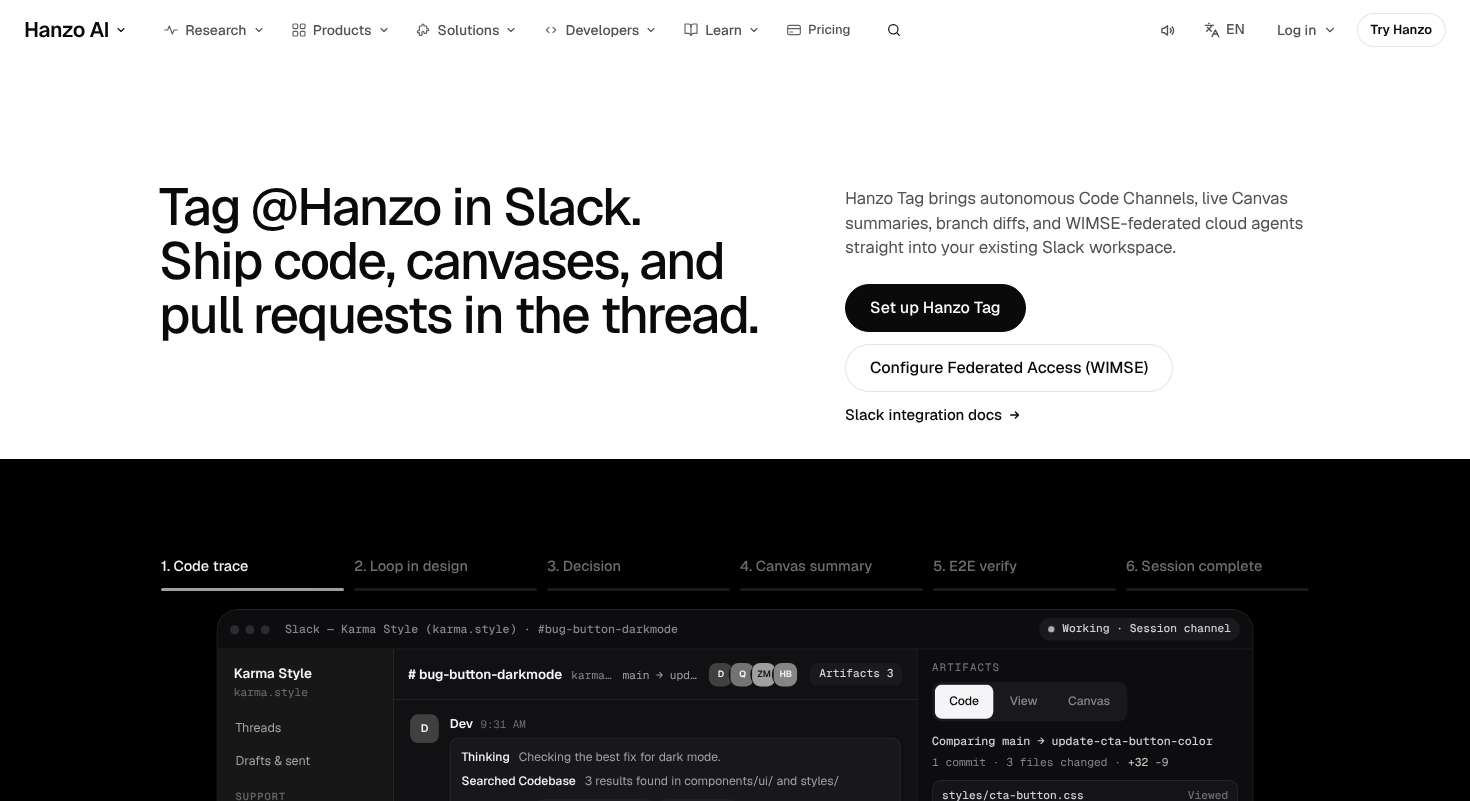
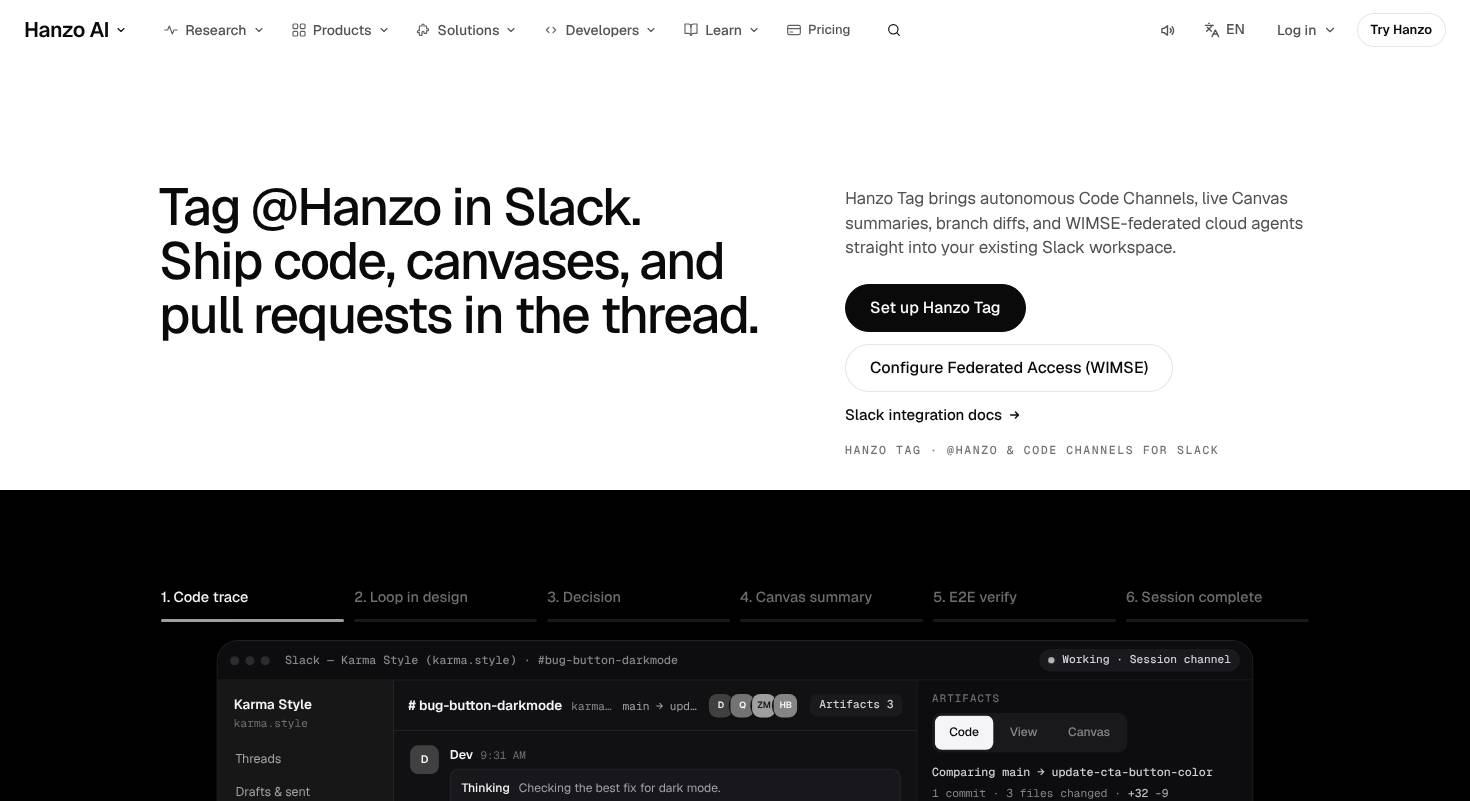
slack: Ready — copycheck missing 0 of 126: every Hanzo line its own text (setup, steps, trace, merged, diff), both Hanzo labels shown under their headline, Dev and Qa memoji restored
Claude-Session: https://claude.ai/code/session_01P5YBdxX2mH7piDf4NGrmPi

diff --git a/components/pages/Slack.jsx b/components/pages/Slack.jsx
@@ -83,7 +83,7 @@ function Diff() {
         <tbody>
           {DIFF.lines.map(([a, b, s, t], i) => (
             <tr key={i} className={s === '+' ? 'add' : s === '-' ? 'del' : ''} style={{ '--i': i }}>
-              <td>{a ?? ''}</td><td>{b ?? ''}</td><td><span className={`${P}-sign`}>{s.trim()}</span>{t}</td>
+              <td>{a ?? ''}</td><td>{b ?? ''}</td><td><span className={`${P}-sign`}>{s.trim()}</span><span className={`${P}-t`}>{t}</span></td>
             </tr>
           ))}
         </tbody>
@@ -245,7 +245,6 @@ function Hero() {
     <section className={`${P}-hero`} aria-labelledby="xsq-h1">
       <div className="a2-wrap a2-grid">
         <div className={`${P}-hero-l`}>
-          <p className="a2-kick"><i className={`${P}-dot`} aria-hidden="true" />{HERO.kick}</p>
           <A2Lines as="h1" id="xsq-h1" className={`a2-display ${P}-h1`} lines={HERO.title} now />
         </div>
         <div className={`${P}-hero-r`}>
@@ -255,6 +254,7 @@ function Hero() {
             <A to={HERO.acts[1][1]} className={`x-btn ${P}-quiet`}>{HERO.acts[1][0]}</A>
           </div>
           <p className={`${P}-docs`}><More to={HERO.acts[2][1]}>{HERO.acts[2][0]}</More></p>
+          <p className={`a2-kick show ${P}-kick`}>{HERO.kick}</p>
         </div>
       </div>
     </section>
@@ -301,9 +301,9 @@ function Notes() {
     <section className={`a2-sec ${P}-notes`} aria-labelledby="xsq-notes-h">
       <div className="a2-wrap a2-grid">
         <div className={`${P}-notes-h`}>
-          <p className="a2-kick"><b>{CODE.kick}</b></p>
           <A2Lines id="xsq-notes-h" className="a2-headline" lines={[CODE.title]} />
           <p className="a2-body">{CODE.lede}</p>
+          <p className={`a2-kick show ${P}-kick`}>{CODE.kick}</p>
           <Crop on={on} />
         </div>
         <div className={`${P}-notes-l`}>
@@ -343,10 +343,10 @@ function Setup() {
       <div className="a2-wrap">
         <div className={`${P}-card`}>
           <div className={`${P}-card-a`}>
-            <p className={`${P}-card-t`}><span>{SETUP.title}</span><b className={s >= 3 ? 'on' : ''}><i aria-hidden="true" />{SETUP.verified}</b></p>
-            <div className={`${P}-card-h`}><Face who="hanzo" p={P} size={34} /><span><b id="xsq-setup-h">{SETUP.name}</b><span>{SETUP.sub}</span></span></div>
+            <p className={`${P}-card-t`}><span>{SETUP.title}</span><b className={s >= 3 ? 'on' : ''}><i aria-hidden="true" /><span className={`${P}-t`}>{SETUP.verified}</span></b></p>
+            <div className={`${P}-card-h`}><Face who="hanzo" p={P} size={34} /><span><b id="xsq-setup-h"><span className={`${P}-t`}>{SETUP.name}</span></b><span>{SETUP.sub}</span></span></div>
             <ol className={`${P}-card-steps`}>
-              {SETUP.steps.map(([t, d], i) => <li key={t} className={s > i ? 'on' : ''}><i aria-hidden="true">{s > i ? '✓' : i + 1}</i><span><b>{t}</b><span>{d}</span></span></li>)}
+              {SETUP.steps.map(([t, d], i) => <li key={t} className={s > i ? 'on' : ''}><i aria-hidden="true">{s > i ? '✓' : i + 1}</i><span><b><span className={`${P}-t`}>{t}</span></b><span>{d}</span></span></li>)}
             </ol>
             <p className={`${P}-card-m`}><span>{SETUP.model}</span><span>{SETUP.retention}</span></p>
           </div>

diff --git a/components/pages/slackData.js b/components/pages/slackData.js
@@ -158,20 +158,18 @@ export const CLOSE = {
 /* The thread's grammar, drawn by both pages under their own class prefix (p). */
 export const Parts = ({ body, p }) => body.map((x, i) => (typeof x === 'string' ? x : <span key={i} className={`${p}-${x[0]}`}>{x[1]}</span>));
 
-/* A face: the person's initial on a drawn disc. Hanzo's memoji (dev.svg, sci.svg) belong in public/memoji/; hanzo.ai was
-   unreachable from the build machine, so nothing is hotlinked and no broken picture or failed request reaches the page.
-   Once the files are mirrored, MEMOJI turns them on (drawn over the disc, which stays as the fallback). */
-const MEMOJI = false;
+/* A face: the person's initial on a drawn disc, with Hanzo's own memoji (dev.svg, sci.svg, as on hanzo.ai/slack) drawn over
+   it from hanzo.ai, the same way /team draws its crew. If the picture can't load, the disc and initial stand in. */
 export function Face({ who, p, size = 32 }) {
   const m = PEOPLE[who];
-  const pic = MEMOJI && m.face ? { backgroundImage: `url(/memoji/${m.face}.svg)`, backgroundSize: 'cover' } : null;
-  return <span className={`${p}-face ${who}`} style={pic || undefined} aria-hidden="true">{m.init}</span>;
+  const pic = m.face ? { '--img': `url(https://hanzo.ai/memoji/${m.face}.svg)` } : undefined;
+  return <span className={`${p}-face ${who}` + (m.face ? ' pic' : '')} style={pic} aria-hidden="true">{m.init}</span>;
 }
 
 /* One message: a person, a system line, or the merged-PR banner. */
 export function Msg({ m, p }) {
   if (m.sys) return <p className={`${p}-sys`}>{m.sys}</p>;
-  if (m.done) return <p className={`${p}-merged`}><i aria-hidden="true" />{m.done}</p>;
+  if (m.done) return <p className={`${p}-merged`}><i aria-hidden="true" /><span className={`${p}-t`}>{m.done}</span></p>;
   const who = PEOPLE[m.who];
   return (
     <div className={`${p}-msg`}>
@@ -181,7 +179,7 @@ export function Msg({ m, p }) {
         {m.trace && (
           <ol className={`${p}-trace`}>
             {m.trace.map(([k, d, files], i) => (
-              <li key={k} style={{ '--i': i }}><b>{k}</b>{d && <span>{d}</span>}{files && files.map((f) => <span key={f} className={`${p}-code`}>{f}</span>)}</li>
+              <li key={k} style={{ '--i': i }}><b><span className={`${p}-t`}>{k}</span></b>{d && <span>{d}</span>}{files && files.map((f) => <span key={f} className={`${p}-code`}>{f}</span>)}</li>
             ))}
           </ol>
         )}
@@ -189,7 +187,7 @@ export function Msg({ m, p }) {
         {m.canvas && (
           <div className={`${p}-canvas-card`}>
             <span className={`${p}-canvas-ico`} aria-hidden="true" />
-            <span><b>{CANVAS.title}</b><span>{CANVAS.meta}</span></span>
+            <span><b><span className={`${p}-t`}>{CANVAS.title}</span></b><span>{CANVAS.meta}</span></span>
             <span className={`${p}-canvas-open`}>{CANVAS.open}</span>
           </div>
         )}

diff --git a/components/pages/Slack.css b/components/pages/Slack.css
@@ -472,3 +472,11 @@
 .xsq-rt:active { transform: scale(.97); }
 .xsq-canvas-card:active { transform: translateY(-1px) scale(.98); }
 .xsq-who-i:active { transform: translateY(-1px) scale(.98); }
+
+/* Copy rule (8 Nov): a plain text leaf inside a styled b/em/code, so every Hanzo line stands on its own; it takes the parent's look */
+span.xsq-t.xsq-t.xsq-t { display: inline; margin: 0; padding: 0; border: 0; border-radius: 0; background: none; min-height: 0; width: auto; height: auto; font: inherit; color: inherit; letter-spacing: inherit; text-transform: inherit; opacity: 1; transform: none; animation: none; }
+/* Hanzo's eyebrow labels, kept visible but below their headline (never above it) */
+.xsq-kick.a2-kick.show { margin: 16px 0 0; }
+/* Hanzo's memoji over the initial disc (Dev, Qa) */
+.xsq-face.pic { position: relative; overflow: hidden; }
+.xsq-face.pic::after { content: ''; position: absolute; inset: 0; background: var(--img) center / cover no-repeat; }

diff --git a/docs/review/slack.md b/docs/review/slack.md
@@ -1,4 +1,5 @@
 # /slack — James-eye review
+Ready: 8 Nov 23:25, copycheck missing 0 of 126 (captured page), Hanzo's images kept (Dev and Qa memoji now drawn over their discs). Every Hanzo line stands on its own: setup card, steps, trace keys, merged banner and diff lines are text leaves; the two Hanzo labels (Hanzo Tag · @Hanzo & Code Channels for Slack, CODE CHANNELS FOR SLACK) are visible under their headline, never above. taste/unique/parity OK; 0 console errors besides the sandbox's blocked hanzo.ai image loads; no overlap at 1470 and 375.
 
 Verdict: 7/10
 First complaint: "The Slack window is brilliant, then it goes flat. After the dark bit it's lists again: six feature names in two columns with nothing to look at, then four little icons in boxes with a sentence under each, with big white gaps in between. The back half is a document."
